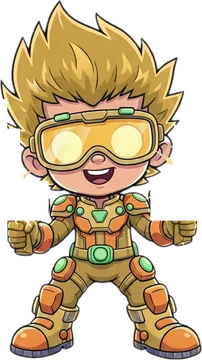
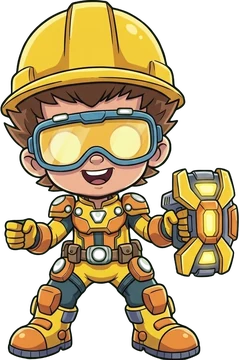
대원 4명과 들쭉날쭉 보스 그림을 Gemini로 새로 그림 (0.037)
- 방벽 기술자·얼음 과학자·드론 조종사·시간 요원·보스를 용사·로봇 그림을 참고로 새로 그리고 배경을 지움
- 고쳐진 보스는 색을 바꿔 만듦, 그림 주소에 버전을 붙여 예전 그림이 남지 않게 함
- 출처 페이지·고지문 갱신

diff --git a/index.html b/index.html
@@ -851,8 +851,8 @@
     <audio id="sfx-fixed" src="sounds/boss_fixed.mp3" preload="auto"></audio>
     <audio id="sfx-tank" src="sounds/tank_move.mp3" preload="auto"></audio>
 
-  <script src="js/crew.js?v=0.036"></script>
-  <script src="js/boss.js?v=0.036"></script>
+  <script src="js/crew.js?v=0.037"></script>
+  <script src="js/boss.js?v=0.037"></script>
 
   <script>
             function formatTime(ms) {
@@ -1573,9 +1573,9 @@
         }
         const imgEnemy = loadSprite('images/robot.webp');
         const imgEnemyFixed = loadSprite('images/robot_fixed.webp');
-        const imgBoss = loadSprite('images/boss.webp');
-        const imgBossFixed = loadSprite('images/boss_fixed.webp');
-        let imgHero = loadSprite(`images/hero_${selectedCrewId()}.webp`);
+        const imgBoss = loadSprite(`images/boss.webp?v=${window.VERSION}`);
+        const imgBossFixed = loadSprite(`images/boss_fixed.webp?v=${window.VERSION}`);
+        let imgHero = loadSprite(`images/hero_${selectedCrewId()}.webp?v=${window.VERSION}`);
         // 높이에 맞춰 원래 비율대로 그림 (x, y는 가운데)
         function drawSpriteFit(img, x, y, h, color) {
             if (img.complete && img.naturalWidth > 0) {
@@ -1721,7 +1721,7 @@
             // 대원 정하기 (새 작전은 시작 화면에서 고른 대원, 이어하기는 그때 대원)
             setCrew(id) {
                 this.crew = newCrewState(crewOf(id).id);
-                imgHero = loadSprite(`images/hero_${this.crew.id}.webp`);
+                imgHero = loadSprite(`images/hero_${this.crew.id}.webp?v=${window.VERSION}`);
                 updateCrewGauge(this);
             }
 

diff --git a/credits.html b/credits.html
@@ -39,7 +39,8 @@
     <h2>🎨 그림·3D</h2>
     <ul>
       <li>블래스터(주인공)와 치우친 로봇: Google Gemini로 만든 그림 (아래 「AI로 만든 그림」)</li>
-      <li>다른 대원 4명, 보스, 고쳐진 로봇: 위 두 그림의 색과 모양을 코드로 바꿔 만듦</li>
+      <li>다른 대원 4명(방벽 기술자, 얼음 과학자, 드론 조종사, 시간 요원)과 들쭉날쭉 보스: 위 그림을 참고로 Google Gemini로 만든 그림</li>
+      <li>고쳐진 로봇과 고쳐진 보스: 위 그림의 색을 코드로 바꿔 만듦</li>
       <li>우주 배경, 별, 치료 광선, 기술 효과, 드론, 에너지 통, 버튼: 코드로 직접 만듦</li>
       <li>3D 모델은 쓰지 않았어요.</li>
     </ul>
@@ -81,7 +82,7 @@
     <h2>🛠 도구 결과물 · 🤖 AI로 만든 그림</h2>
     <ul>
       <li>도구 결과물: 없음</li>
-      <li>블래스터와 치우친 로봇 그림: 선생님이 Google Gemini로 만든 그림이에요. 다른 대원, 보스, 고쳐진 로봇은 이 그림으로 만들었어요.</li>
+      <li>대원 5명, 치우친 로봇, 들쭉날쭉 보스 그림: 선생님이 Google Gemini로 만든 그림이에요. 초록 배경을 코드로 지웠고, 고쳐진 로봇은 색만 바꿨어요.</li>
     </ul>
   </section>
 

diff --git a/js/crew.js b/js/crew.js
@@ -65,7 +65,7 @@ function renderCrewPicker() {
         card.className = 'crew-card' + (c.id === current ? ' chosen' : '') + (open ? '' : ' locked');
         card.style.setProperty('--crew', c.color);
         card.innerHTML = '<img alt=""><b></b><span class="crew-skill"></span><span class="crew-how"></span>';
-        card.querySelector('img').src = `images/hero_${c.id}.webp`;
+        card.querySelector('img').src = `images/hero_${c.id}.webp?v=${window.VERSION}`;
         card.querySelector('b').textContent = c.name;
         card.querySelector('.crew-skill').textContent = open ? `${c.icon} ${c.skill}` : '🔒 잠김';
         card.querySelector('.crew-how').textContent = open ? c.gesture : `${c.unlock} (${Math.min(c.have(), c.need)}/${c.need})`;

diff --git a/version.js b/version.js
@@ -1,2 +1,2 @@
 // 게임 버전: 고칠 때마다 +0.001
-window.VERSION = "0.036";
+window.VERSION = "0.037";
